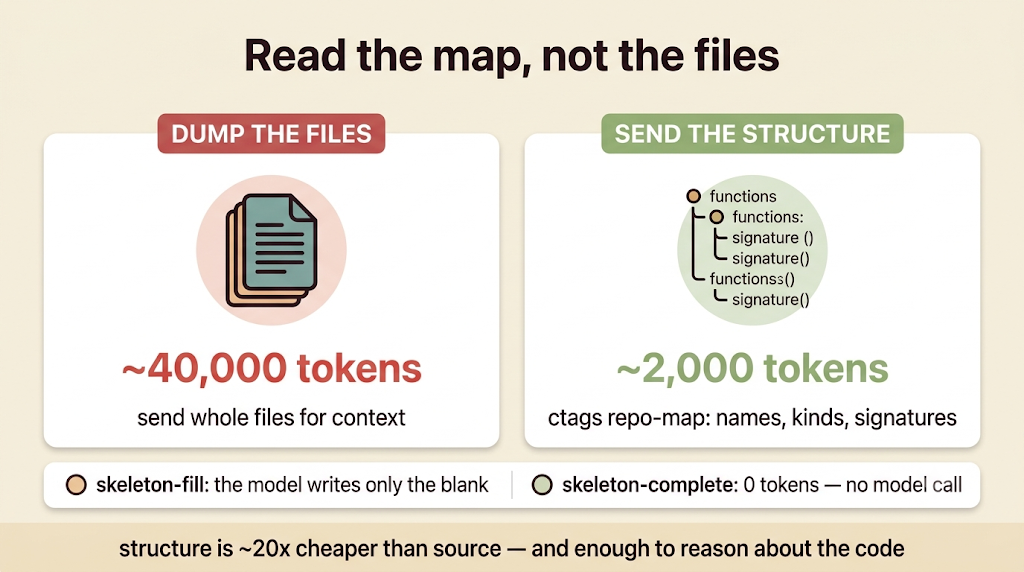
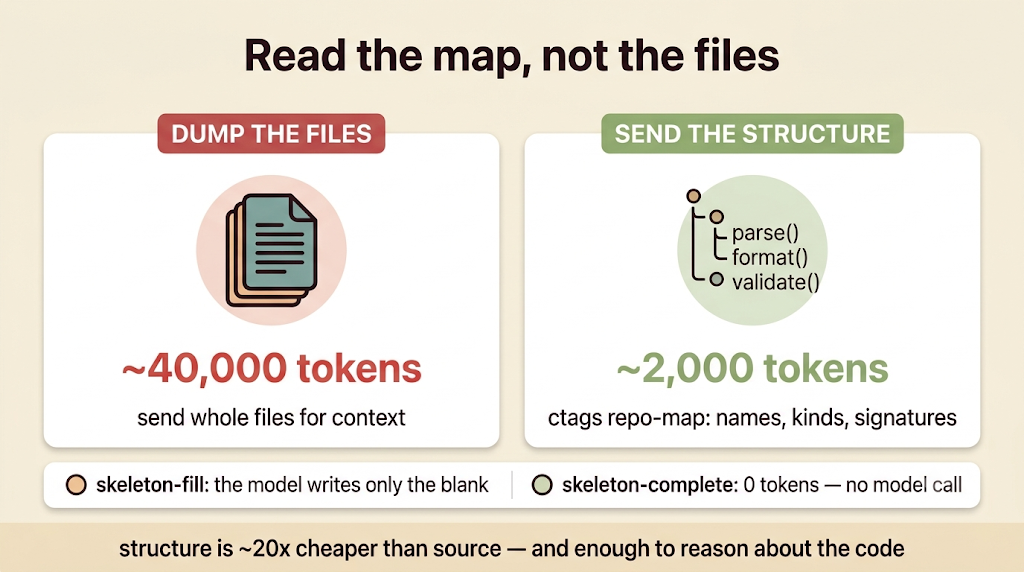
infographics: swap in cleaned 08_fewer_tokens (code-map text now parse/format/validate)
Claude-Session: https://claude.ai/code/session_01RXVxW7mnU4rgx2d2ope1vy

Changed region(s): [[0.6875, 0.3269, 0.8125, 0.535]]

diff --git a/docs/infographics/README.md b/docs/infographics/README.md
@@ -14,7 +14,7 @@ through the harness itself** (`lathe review` with a vision-capable analyst).
 | `05_capability_map_poster.png` | Poster version of the map: 9 buckets, punchier, Nano Banana. Fewer items, no analyst-status color. | ✅ Final |
 | `06_loop_that_learns.png` | The two-harness feedback loop: analyst writes spec+tests → local model builds → gate → PASS pins/ships, FAIL banks the test and the analyst sharpens the spec. "No escalation." | ✅ Final |
 | `07_clean_tree.png` | Without vs with Lathe: a mess of `util_v2/util_final/util_OLD` the model guesses between, vs one canonical file enforced by the gate (+ `whatis`). "The gate keeps the tree honest." | ✅ Final |
-| `08_fewer_tokens.png` | Dump-the-files (~40k tokens) vs send-the-structure (ctags repo-map, ~2k) + skeleton-fill/complete. "Structure is ~20x cheaper than source." | ✅ (minor: decorative code-map text is placeholder) |
+| `08_fewer_tokens.png` | Dump-the-files (~40k tokens) vs send-the-structure (ctags repo-map, ~2k) + skeleton-fill/complete. "Structure is ~20x cheaper than source." | ✅ Final (code-map text cleaned) |
 | `09_run_anywhere.png` | Three ways to run it: standalone CLI ● · inside your agent via MCP ○ · embedded ●; pluggable analyst + implementer. "Pluggable at both ends." | ✅ Final |
 
 ## How determinism actually works (the point `04_determinism.png` makes explicit)